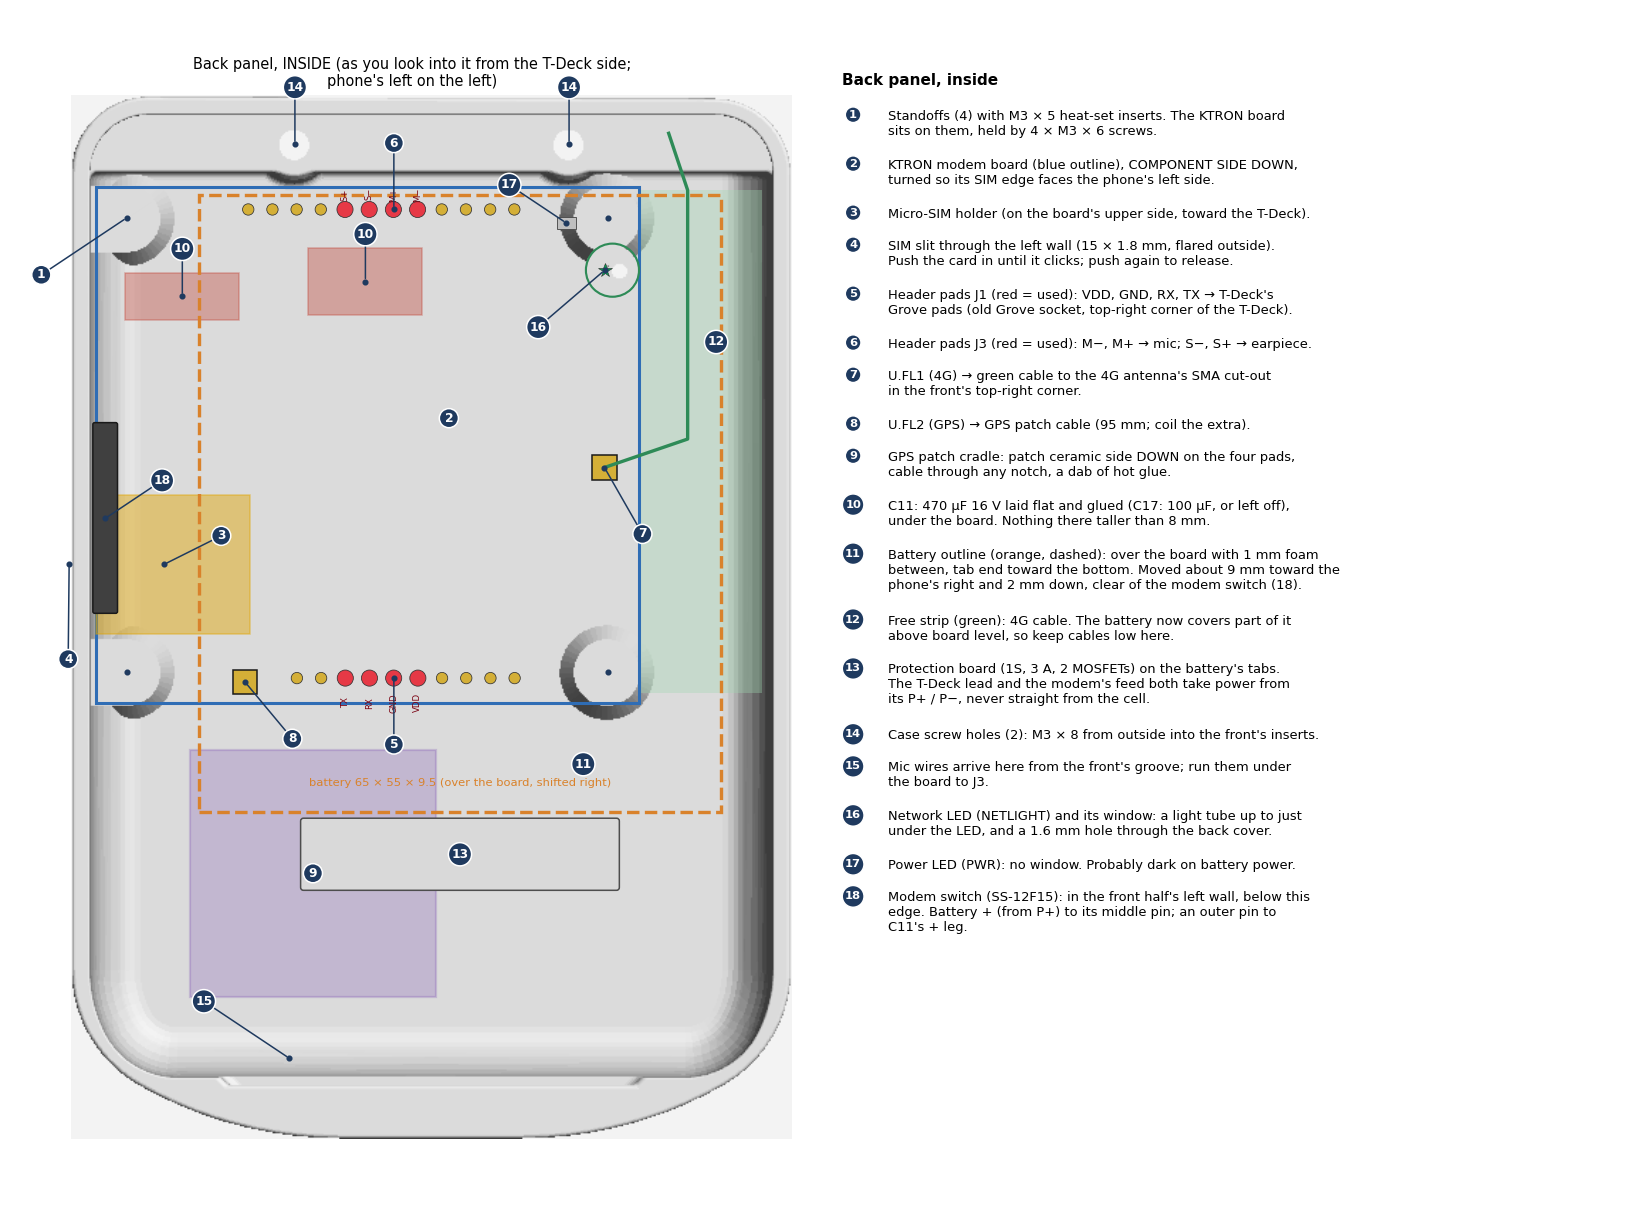
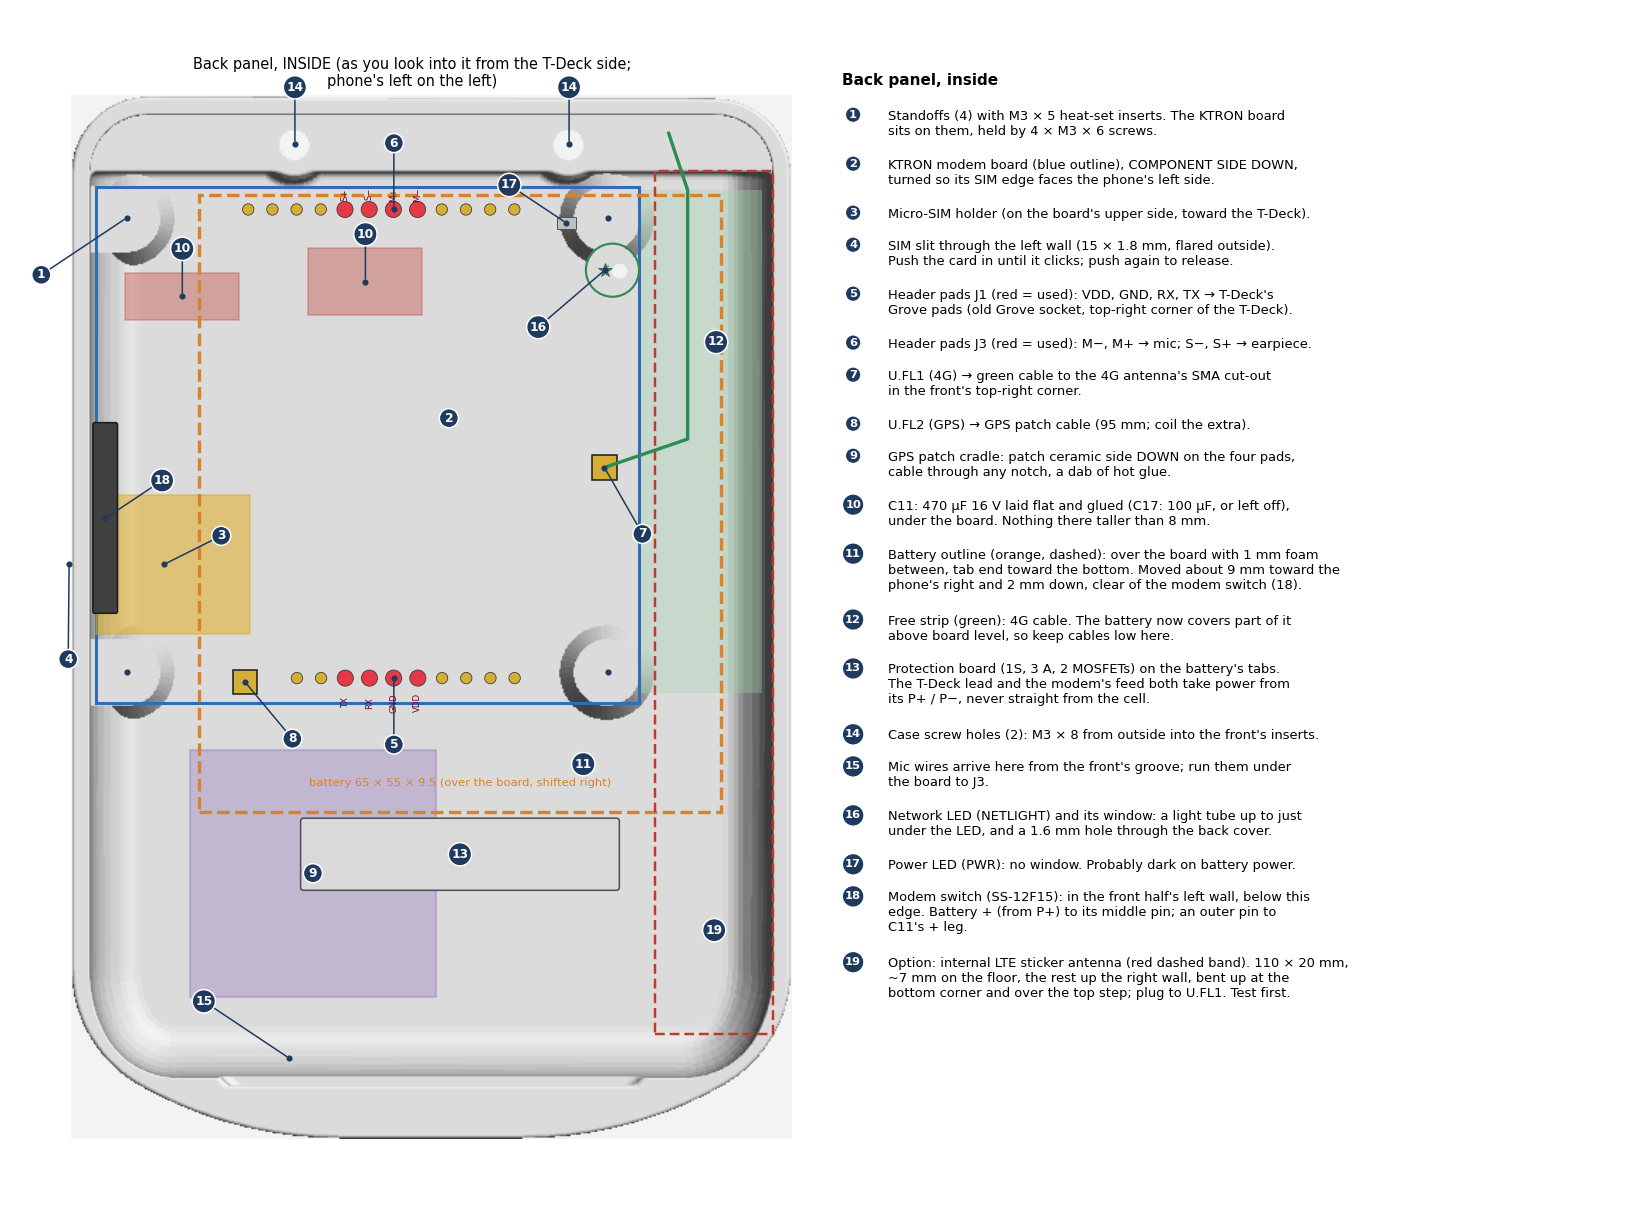
Antennas: plan for the internal LTE sticker antenna
The full-band LTE sticker antenna (110 x 20 mm, U.FL) that came with the
T-Deck can go along the inside of the back's right side, beside the
modem board, wrapped from the floor up the wall. No case change: the SMA
holes stay, and the antenna plug fills the top-right one when the
sticker is used. Keep it only if its RSRP is within about 5 dB of an
SMA antenna's in the closed case.

- wiring.md section 6: table row, placement band, wrapping, what costs
  signal, how to decide
- bring-up.md: comparing antennas with AT+CPSI? RSRP
- assembly.md, decisions.md, bom.md, case.md, case/README.md, README.md
- back inside diagram: red dashed band, callout 19

Changed region(s): [[0.5255, 0.795, 0.8036, 0.8256]]

diff --git a/case/scripts/make_diagrams.py b/case/scripts/make_diagrams.py
@@ -280,6 +280,8 @@ def back_inside(back, path, layout):
     ax.plot(lx, ly, "*", color="#00a651", ms=9, mec="0.2", mew=0.4)
     px, py = btb(50.58, 7.63)
     ax.add_patch(Rectangle((px - 1.0, py - 0.6), 2.0, 1.2, fc="0.75", ec="0.3", lw=0.6))
+    # internal LTE sticker option: the band along the right side (floor + wall), beside the board
+    ax.add_patch(Rectangle((57.6, 9.0), 70.0 - 57.6, 91.0, fill=False, ec="#c0392b", lw=1.6, ls=(0, (4, 2))))
     # protection board on the battery's tabs (bottom end) and the modem switch (front half, left wall)
     ax.add_patch(FancyBboxPatch((20.5, 24.5), 33, 7, boxstyle="round,pad=0.3", fc="0.85", ec="0.3"))
     ax.add_patch(FancyBboxPatch((-1.5, 53.6), 2.2, 19.7, boxstyle="round,pad=0.2", fc="0.25", ec="0.1"))
@@ -301,6 +303,7 @@ def back_inside(back, path, layout):
     marker(ax, 64, 82, 12)
     marker(ax, 37, 28, 13)
     marker(ax, -0.4, 63.4, 18, dx=6, dy=4)
+    marker(ax, 63.8, 20.0, 19, dx=0, dy=0)
     marker(ax, 19.6, 102.85, 14, dy=6)
     marker(ax, 48.5, 102.85, 14, dy=6)
     marker(ax, 19.0, 6.5, 15, dx=-9, dy=6)
@@ -326,6 +329,7 @@ def back_inside(back, path, layout):
         (16, "Network LED (NETLIGHT) and its window: a light tube up to just\nunder the LED, and a 1.6 mm hole through the back cover."),
         (17, "Power LED (PWR): no window. Probably dark on battery power."),
         (18, "Modem switch (SS-12F15): in the front half's left wall, below this\nedge. Battery + (from P+) to its middle pin; an outer pin to\nC11's + leg."),
+        (19, "Option: internal LTE sticker antenna (red dashed band). 110 × 20 mm,\n~7 mm on the floor, the rest up the right wall, bent up at the\nbottom corner and over the top step; plug to U.FL1. Test first."),
     ], title="Back panel, inside")
     fig.savefig(path); plt.close(fig)
 

diff --git a/docs/wiring.md b/docs/wiring.md
@@ -239,6 +239,7 @@ The T-Deck's own speaker plays the ringtone when the modem sends `RING`. No extr
 | Antenna | Connects to | Part | Where it goes |
 |---|---|---|---|
 | LTE | KTRON U.FL1 (top edge) | SMA antenna rated 700–2700 MHz, through the KTRON IPX → SMA female cable | Recommended: the case's top-right SMA cut-out (old Grove corner), close to U.FL1. Away from the top centre, where the T-Deck's Wi-Fi/BT antenna is |
+| LTE, internal option | KTRON U.FL1 directly | The full-band LTE sticker antenna that came with the T-Deck (110 × 20 mm, U.FL, 11 cm) | Inside the back, along its right side, wrapped from the floor up the wall (see below). Antenna plug in the top-right hole |
 | GNSS | KTRON U.FL2 (beside L2; it powers an active antenna) | KTRON KSTA1417 active patch | Bottom half of the back, at least 60 mm from the LTE antenna, ceramic side toward the back cover |
 | LoRa | T-Deck's own u.FL | T-Deck's own u.FL-to-SMA cable | The case's top-left SMA cut-out, where it already sits (or the printed plug if the LoRa antenna stays inside) |
 
@@ -247,6 +248,47 @@ in the top-right (old Grove corner), and the T-Deck's LoRa connector staying top
 From the top-right, the 4G cable drops straight into the empty strip beside the modem board, to its 4G socket on
 that side (about 4 cm; the 10 cm cable is plenty). From the top-left, it would have to get around the battery,
 which covers the board with only about 1 mm to spare (about 11 cm, so use the 15 cm cable).
+
+### Internal LTE sticker antenna (option to try, 6 Nov 2026)
+
+The **full-band LTE sticker antenna** that came with the T-Deck can serve the modem from inside the case.
+- **Antenna:** labelled "Full Band LTE Antenna, 698–960 / 1710–2690 MHz", which covers every Indian 4G band (B1, B3, B5, B8,
+  B40, B41) and 2G. **110 × 20 mm**, with an **11 cm** cable ending in a **U.FL plug**. It plugs straight into
+  **U.FL1**, so the IPX → SMA cable isn't needed.
+- **SMA option stays:** the case doesn't change. The SMA cut-outs stay, so an external antenna can go back on at any
+  time. With the sticker inside, fit the printed **antenna plug** in the top-right hole.
+- **LoRa:** if the sticker serves the modem, LoRa needs its own antenna in the top-left hole, for example a 50 mm
+  868 MHz SMA stubby. If LoRa isn't used, plug that hole too.
+
+**Where it goes:** along the **right side of the back**, in the band beside the modem board (back diagram ⑲). Measured
+from the case file, with distances counted from the inside of the right wall:
+- **Floor:** the right-hand standoffs' feet end about 12.5 mm from the wall. From there the floor is flat for
+  about **7.5 mm**, to 5 mm from the wall. It then curves up into the wall (1 mm up at 3 mm from the wall, 4 mm up
+  at 1 mm), and the wall is vertical, **16 mm** tall.
+- **Length:** about **91 mm**, from where the bottom corner starts to curve to a 5 mm-high step near the top.
+- **How it's wrapped:**
+  - **Across its width:** about 7 mm flat on the floor, about 4 mm around the curve, and about 9 mm up the wall.
+  - **Along its length:** about 91 mm along the side, plus about 10 mm up the bottom corner and about 9 mm over the
+    top step.
+- **Nothing in the way:** the LED tube, SIM slit, GPS cradle and switch are all elsewhere.
+- **Cable:** U.FL1 sits just beside the band, about two-thirds of the way up. It is about 35 mm from the strip's
+  top end and about 60 mm from its bottom end, so the 11 cm cable reaches from either end. Lay any spare cable on
+  the floor, not across the strip.
+
+**Why there:** it lies **beside** the KTRON board, not under it. An antenna under the board (9 mm below its copper
+layer) or under the battery's foil casing would lose a lot, most of all on 850/900 MHz.
+
+**What will cost some signal:**
+- **Battery:** its right edge, moved for the modem switch, is about 5 mm from the wall part of the strip, and it
+  overhangs the floor part 13 mm above.
+- **GPS:** the strip's bottom end is about 23 mm from the GPS patch, closer than the 60 mm aimed for. GPS only
+  suffers while the modem transmits.
+
+**Decide by measurement** (see [bring-up.md](bring-up.md), "Comparing antennas"):
+1. Tape the strip in place first; don't peel its backing yet.
+2. In the printed case, with the board and battery in place, compare its 4G signal (`AT+CPSI?`) with an SMA
+   antenna's.
+3. **Within about 5 dB:** stick it down. **Much worse:** use the SMA antenna.
 
 ## Version 2: speakerphone
 

diff --git a/docs/assembly.md b/docs/assembly.md
@@ -103,6 +103,9 @@ Details and checks are in [wiring.md](wiring.md).
 2. **Plug in the antenna cables before the board goes down.** The U.FL sockets are on the board's underside.
    - GPS cable to U.FL2 (back ⑧). Coil the spare cable loosely in the gap under the board.
    - 4G cable to U.FL1 (back ⑦), running out into the free strip on the right (⑫), toward the top-right corner.
+   - **Or the internal LTE sticker** (back ⑲): press its U.FL plug onto U.FL1 and lay the strip along the right side,
+     about 7 mm on the floor and the rest up the wall, bending up at the bottom corner and over the top step. Tape it
+     until the signal test says it's good enough ([wiring.md](wiring.md), section 6).
 3. **Modem board** (back ②): component side **down**, with the SIM edge toward the phone's left wall (the SIM slit,
    ④). Screw it to the standoffs with 4 × M3 × 6.
 4. **Protection board** (⑬): already on the battery's tabs, at its bottom end, insulated with tape.
@@ -123,7 +126,7 @@ Details and checks are in [wiring.md](wiring.md).
 1. **SIM**: push a micro-SIM into the slit on the back's left side until it clicks. A fresh multi-cut SIM, popped
    out at micro size, works better than a nano in an adapter. Push again to release it.
 2. **Antennas**: screw the LoRa antenna onto the top-left connector, and the 4G antenna (700–2700 MHz) onto the
-   top-right one.
+   top-right one. With the internal LTE sticker, push the printed antenna plug into the top-right hole instead.
 3. **Power**: switch on the T-Deck with its own switch (right side) and the modem with its switch (left side).
    Switch both off together, because a modem left on drains the battery in about 10 days.
 
@@ -136,6 +139,8 @@ Details and checks are in [wiring.md](wiring.md).
 - **Earpiece wires:** they pass between the battery's top edge and the back's solid block. Centred on the board, the
   battery leaves only 0.5 mm there, so slide it about 2 mm toward the bottom of the phone.
 - **Mic:** it fits its pocket. Print the mic test coupon first.
+- **Internal LTE sticker (if used):** compare its signal with an SMA antenna before sticking it down
+  ([bring-up.md](bring-up.md), "Comparing antennas").
 - **Modem switch:** it slides freely end to end, and the T-Deck sits flat under it (0.5 mm clearance by design). Its
   pins and wires stay clear of the battery's left edge.
 - **Earpiece:** the receiver fits the holder's 12.4 mm cup, between the holder's wall and the pocket's far wall. With the holder in, there's no rattle and the case

diff --git a/case/README.md b/case/README.md
@@ -21,7 +21,7 @@ credit), so everything to print is in [stl/](stl/):
 |---|---|---|
 | [stl/100/alley-chat-td1-switch.stl](stl/100/alley-chat-td1-switch.stl) | Slider for the T-Deck's own power switch (right side). Needed | `Alley Chat TD1 Switch.stl` |
 | [stl/100/alley-chat-td1-reset-button.stl](stl/100/alley-chat-td1-reset-button.stl) | Button for the T-Deck's reset (left side). Needed if you want to reach reset from outside | `Alley Chat TD1 Reset Button.stl` |
-| [stl/100/alley-chat-td1-x-antenna-plug.stl](stl/100/alley-chat-td1-x-antenna-plug.stl) | Blanks off an SMA hole that has no connector in it. **Not needed in this build:** both holes carry an SMA connector (LoRa top-left, 4G top-right) | `Alley Chat TD1 X Antenna Plug.stl` |
+| [stl/100/alley-chat-td1-x-antenna-plug.stl](stl/100/alley-chat-td1-x-antenna-plug.stl) | Blanks off an SMA hole that has no connector in it. **Needed only with the internal LTE sticker antenna**, which leaves the 4G (top-right) hole empty. With SMA antennas, both holes carry a connector (LoRa top-left, 4G top-right) | `Alley Chat TD1 X Antenna Plug.stl` |
 
 **Folders:** [stl/100/](stl/100/) has the six parts to print at normal size, and [stl/101/](stl/101/) the same six built
 1 % larger, for a T-Deck that's too tight (see [Fit and scale](#fit-and-scale-print-the-test-ring-first)). Print one
@@ -211,6 +211,11 @@ The SIM slit is shown from outside in the "after" half of the picture under *Mod
 - **Blink pattern** (SIMCom): lit steadily while searching for the network; 200 ms on / 200 ms off once
   registered.
 - **Optional:** a drop of clear glue or UV resin seals the hole and spreads the light.
+
+**Internal LTE antenna option.** The full-band LTE sticker antenna (110 × 20 mm) can go along the inside of the back's
+right side, wrapped from the floor up the wall. It needs no change to the case files. The band beside the modem board is
+about 7.5 mm of flat floor, a curve, and 16 mm of wall, about 91 mm long. Details, and how to decide by measuring, are
+in [../docs/wiring.md](../docs/wiring.md), section 6. With it, the top-right SMA hole takes the antenna plug.
 
 **Depth** (inside floor to the T-Deck's back, 23 mm with LilyGO's 11 mm T-Deck): 9 standoffs + 1.6 board + 1.5 SIM
 holder + 1 foam + 9 battery = 22.1 mm. The battery (65 × 55 × 9 mm) lies over the board, its long side running top

diff --git a/README.md b/README.md
@@ -23,7 +23,7 @@ So:
 
 ```
                      4 soldered wires (TX, RX, 3.3 V, GND)
-  LilyGO T-Deck  ─────────────────────────────────  KTRON A7672S board ──── LTE antenna (SMA)
+  LilyGO T-Deck  ─────────────────────────────────  KTRON A7672S board ──── LTE antenna (SMA, or internal sticker)
   screen, keyboard,                                   │      │      └────── GPS patch antenna
   speaker (ringtone)                               earpiece  mic
        │                                              │
@@ -50,7 +50,8 @@ fallback and GNSS.
 
 ## Next steps
 
-1. Order the KTRON board, GPS patch, antenna cable and mics. Buy a multimeter. Choose the LTE antenna.
+1. Order the KTRON board, GPS patch, antenna cable and mics. Buy a multimeter. Choose the LTE antenna, or first try the
+   full-band sticker antenna that came with the T-Deck inside the case ([docs/wiring.md](docs/wiring.md), section 6).
 2. When the parts arrive, run the bench checks in [docs/bring-up.md](docs/bring-up.md) from the Mac through the
    USB-serial adapter, including a VoLTE test call inside the seller's return window.
 3. Case: the front (earpiece grille, mic pocket), the earpiece holder and the back (modem standoffs, SIM slit,

diff --git a/docs/bring-up.md b/docs/bring-up.md
@@ -137,6 +137,16 @@ KTRON's warranty doesn't cover short-circuited boards, so check every joint befo
    | `AT*IMSRCFG="switch"` | `"switch","on"` (VoLTE path on) |
 
    The network LED also changes its blink pattern once the modem is registered.
+
+   **Comparing antennas** (SMA vs the internal LTE sticker, [wiring.md](wiring.md) section 6):
+   - On 4G, `AT+CPSI?` answers like `+CPSI: LTE,Online,…,EUTRAN-BAND3,1650,5,0,21,67,255,19`. The last four numbers are
+     the signal quality (RSRQ), **signal strength (RSRP)**, RSSI and noise ratio.
+   - Compare **RSRP**, the third number from the end (67 here, which is −73 dBm: subtract 140). Higher is better, and
+     each step is 1 dB. Read it five times about
+     10 seconds apart, and average.
+   - Do both antennas in the same spot, with the board and battery in the printed case. Only compare readings taken on
+     the same band (the `EUTRAN-BAND…` field).
+   - If the sticker averages within about 5 dB of the SMA antenna, it's fine to keep inside.
 4. **Call.** With the earpiece and mic connected, send `AT+CSDVC=1`, `AT+COUTGAIN=4`, `AT+CMICGAIN=4` and
    `AT+CLIP=1`.
    - Call your other phone with `ATD+91XXXXXXXXXX;` and answer it. The modem prints `VOICE CALL: BEGIN`.

diff --git a/docs/case.md b/docs/case.md
@@ -18,7 +18,7 @@ originals the scripts start from, and where the unchanged small parts were copie
 | `Alley Chat TD1 X Back Outside Cat Edition.stl` | Back (gives 23 mm behind the T-Deck). The Outside Cat edition is the source for our back, with its cat replaced by the rushiWorks logo |
 | `Alley Chat TD1 Switch.stl` | Slider for the T-Deck's own power switch (right side). Copied unchanged to case/stl/ |
 | `Alley Chat TD1 Reset Button.stl` | Button for the T-Deck's reset (left side). Copied unchanged to case/stl/ |
-| `Alley Chat TD1 X Antenna Plug.stl` | Only for an SMA hole left empty. Not needed here: both holes carry a connector. Copied unchanged to case/stl/ |
+| `Alley Chat TD1 X Antenna Plug.stl` | Only for an SMA hole left empty. Needed only if the internal LTE sticker antenna replaces the 4G SMA antenna (top-right hole). Copied unchanged to case/stl/ |
 | `Alley Cat TDeck Back Cover Custom.step` | "S" back, used only for its mating edge when drawing the new back |
 
 Print the modified front and back from this repository ([case/stl/](../case/stl/)), not the downloaded ones.

diff --git a/bom.md b/bom.md
@@ -41,6 +41,7 @@ Prices are in rupees and include GST unless noted. Status as of 2 Nov 2026.
 | Part | Used for |
 |---|---|
 | LilyGO T-Deck (base model, ESP32-S3FN16R8) | The phone itself |
+| Full-band LTE sticker antenna, 698–960 / 1710–2690 MHz, 110 × 20 mm, U.FL plug on an 11 cm cable (came with the T-Deck) | Internal 4G antenna option on U.FL1 ([docs/wiring.md](docs/wiring.md), section 6) |
 | CP2102 USB-serial adapter (with 3.3 V pin) | Bench tests from the Mac before the firmware exists ([docs/bring-up.md](docs/bring-up.md)) |
 | Li-ion pouch cell HH 955465, 5000 mAh, 9.5 × 54 × 65 mm nominal (measured 65 × 55 × 9), bare tabs with a JST lead. No protection circuit, so it needs a protection board (above) | Powers both boards |
 | Radial electrolytics: 470 µF 16 V (6–7 × 12 mm) and 100 µF 16 V (4–5 × 8 mm) | Replace the KTRON's 11 mm tall C11 and C17, laid flat, so the board fits under the battery |

diff --git a/docs/decisions.md b/docs/decisions.md
@@ -190,6 +190,11 @@ The A7672S has Bluetooth built in. It stays off: never send `AT+BTPOWER=1`.
 - **GNSS:** KTRON KSTA1417 active ceramic patch, ₹105, on U.FL2, which powers active antennas. At least 60 mm from
   the LTE antenna.
 - **LoRa:** unchanged, the T-Deck's own cable and the case's existing antenna hole.
+- **LTE, internal option (6 Nov 2026):** the full-band LTE sticker antenna that came with the T-Deck (698–960 /
+  1710–2690 MHz, 110 × 20 mm, U.FL) can go inside the back's right side. It sits beside the modem board, not under it
+  or the battery, wrapped from the floor up the wall. The SMA cut-outs stay, so the case doesn't change. Kept only if
+  its signal is within about 5 dB of an SMA antenna's in the closed case. Under the board, it would sit 9 mm below the
+  board's copper layer and lose too much.
 
 ## Case: Alley Cat TD1, Standard front (GPS inserts) + X back
 
